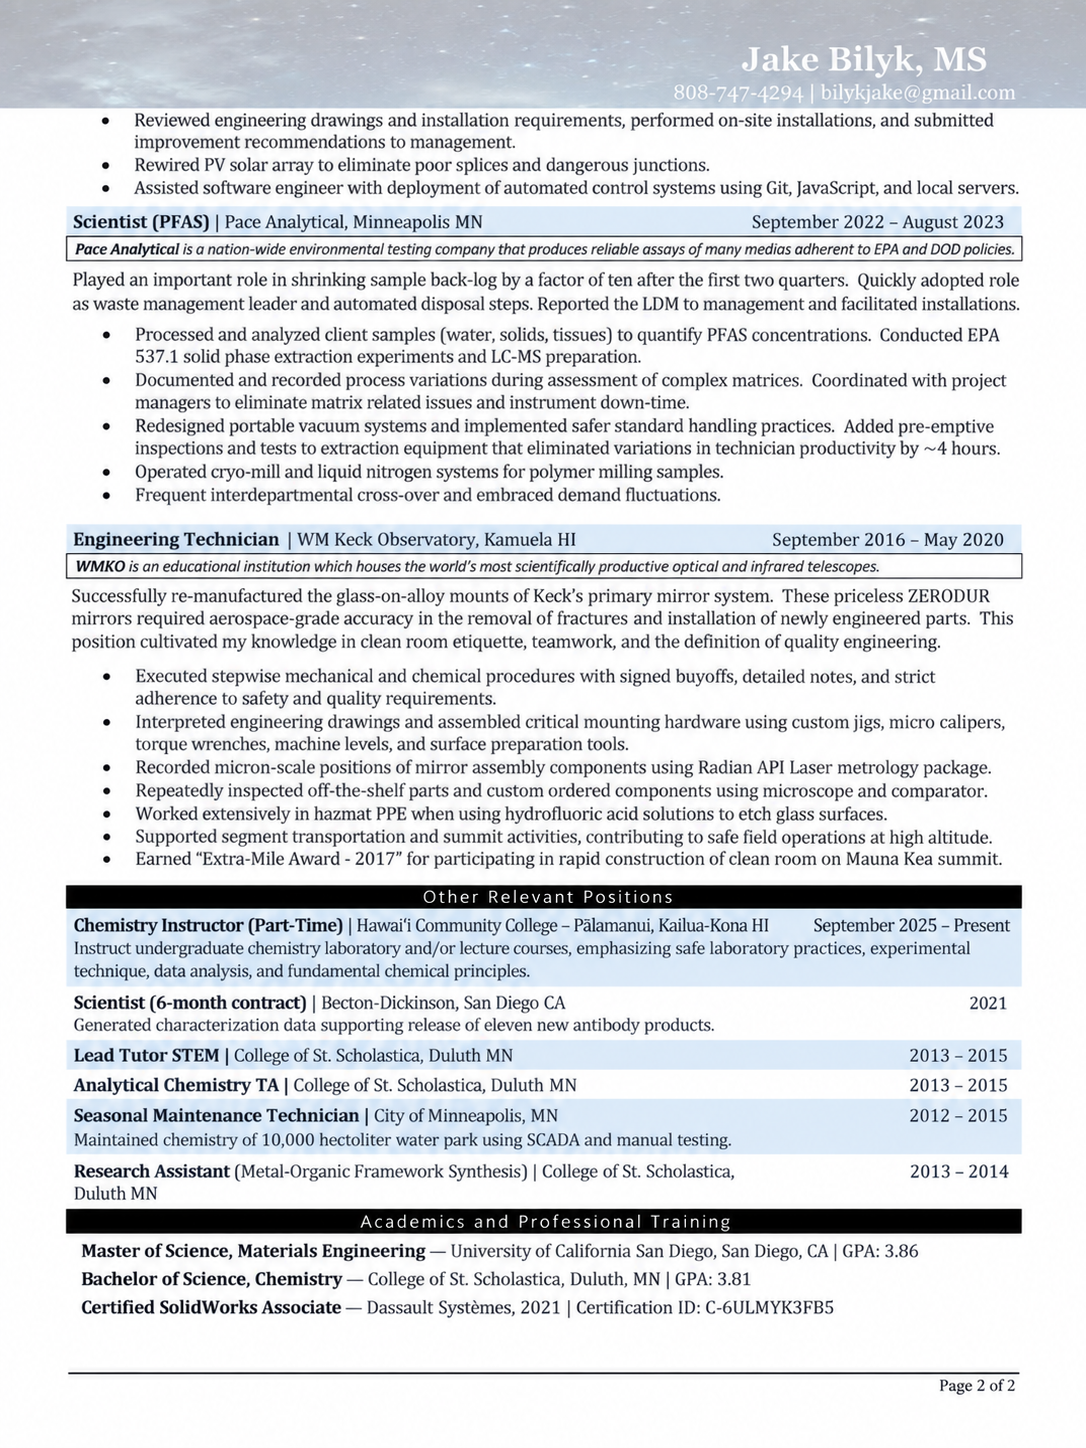
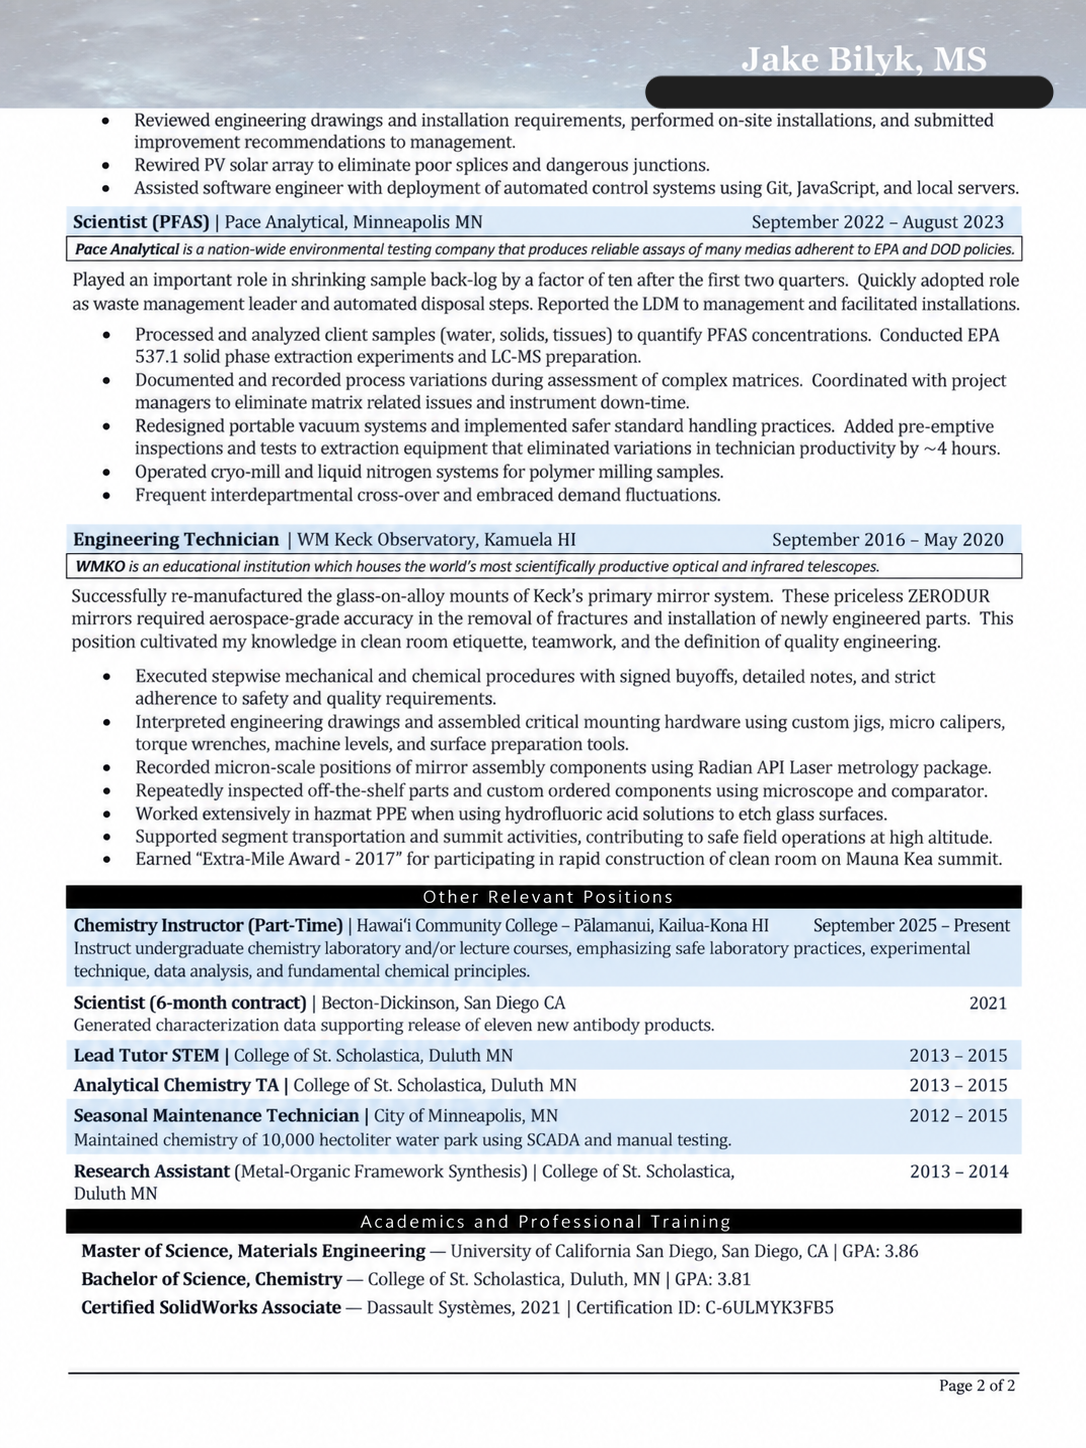
adjustResume upload more images

Changed region(s): [[0.5773, 0.0311, 0.9724, 0.0932]]

diff --git a/index.html b/index.html
@@ -45,15 +45,15 @@
 							    <section>
 							        <div class="row">
 							            <div class="col-12">
-											<div class="pdf-viewer">
-							                	<!-- PDF Previewer, the current size vals function okay rn, 1.294 ratio -->
-							                	<iframe src="https://drive.google.com/file/d/1yHsQKPlspwNkOSDJP9QMDO7dJ5Lo3QHp/preview" width="736" height="952" allow="autoplay" style="border:none"></iframe>
-											</div>
-										
-							                <!-- Download PDF Button -->
-							                <div style="text-align: center;">
-												<a href="JakeBilyk_ResumeCV_10312023_Keck.pdf" target="_blank" class="button">Download Resume PDF</a>
-											</div>
+                                            <div class="resume-images">
+                                                <img src="images/JakeBilykResumePage1.png"
+                                                     alt="Jake Bilyk Resume Page 1"
+                                                     class="resume-page">
+                                            
+                                                <img src="images/JakeBilykResumePage2.png"
+                                                     alt="Jake Bilyk Resume Page 2"
+                                                     class="resume-page">
+                                            </div>
 							            </div>
 							        </div>
 							    </section>

diff --git a/assets/css/main.css b/assets/css/main.css
@@ -2267,3 +2267,16 @@ input, select, textarea {
 			}
 
 		}
+
+.resume-images {
+    width: 100%;
+    max-width: 900px;
+    margin: 0 auto;
+}
+
+.resume-page {
+    display: block;
+    width: 100%;
+    height: auto;
+    margin-bottom: 1.5rem;
+}
